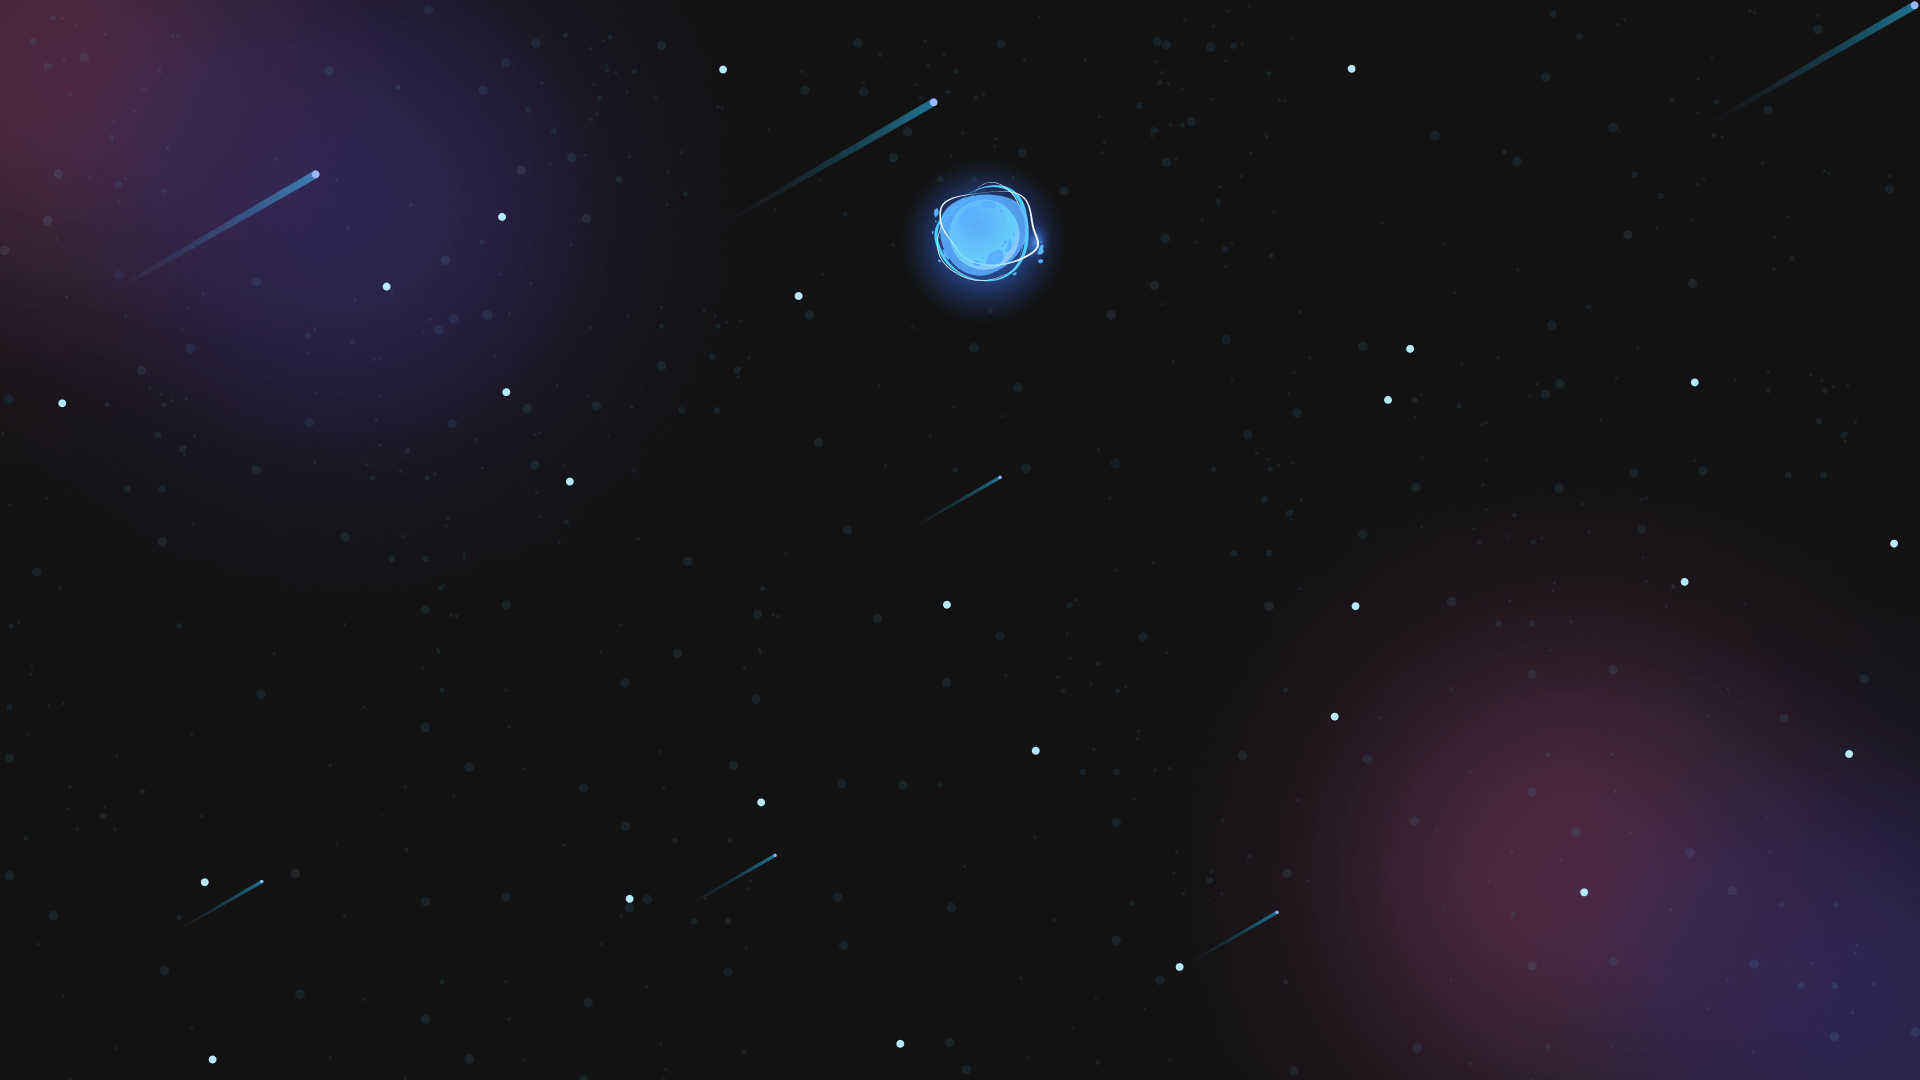
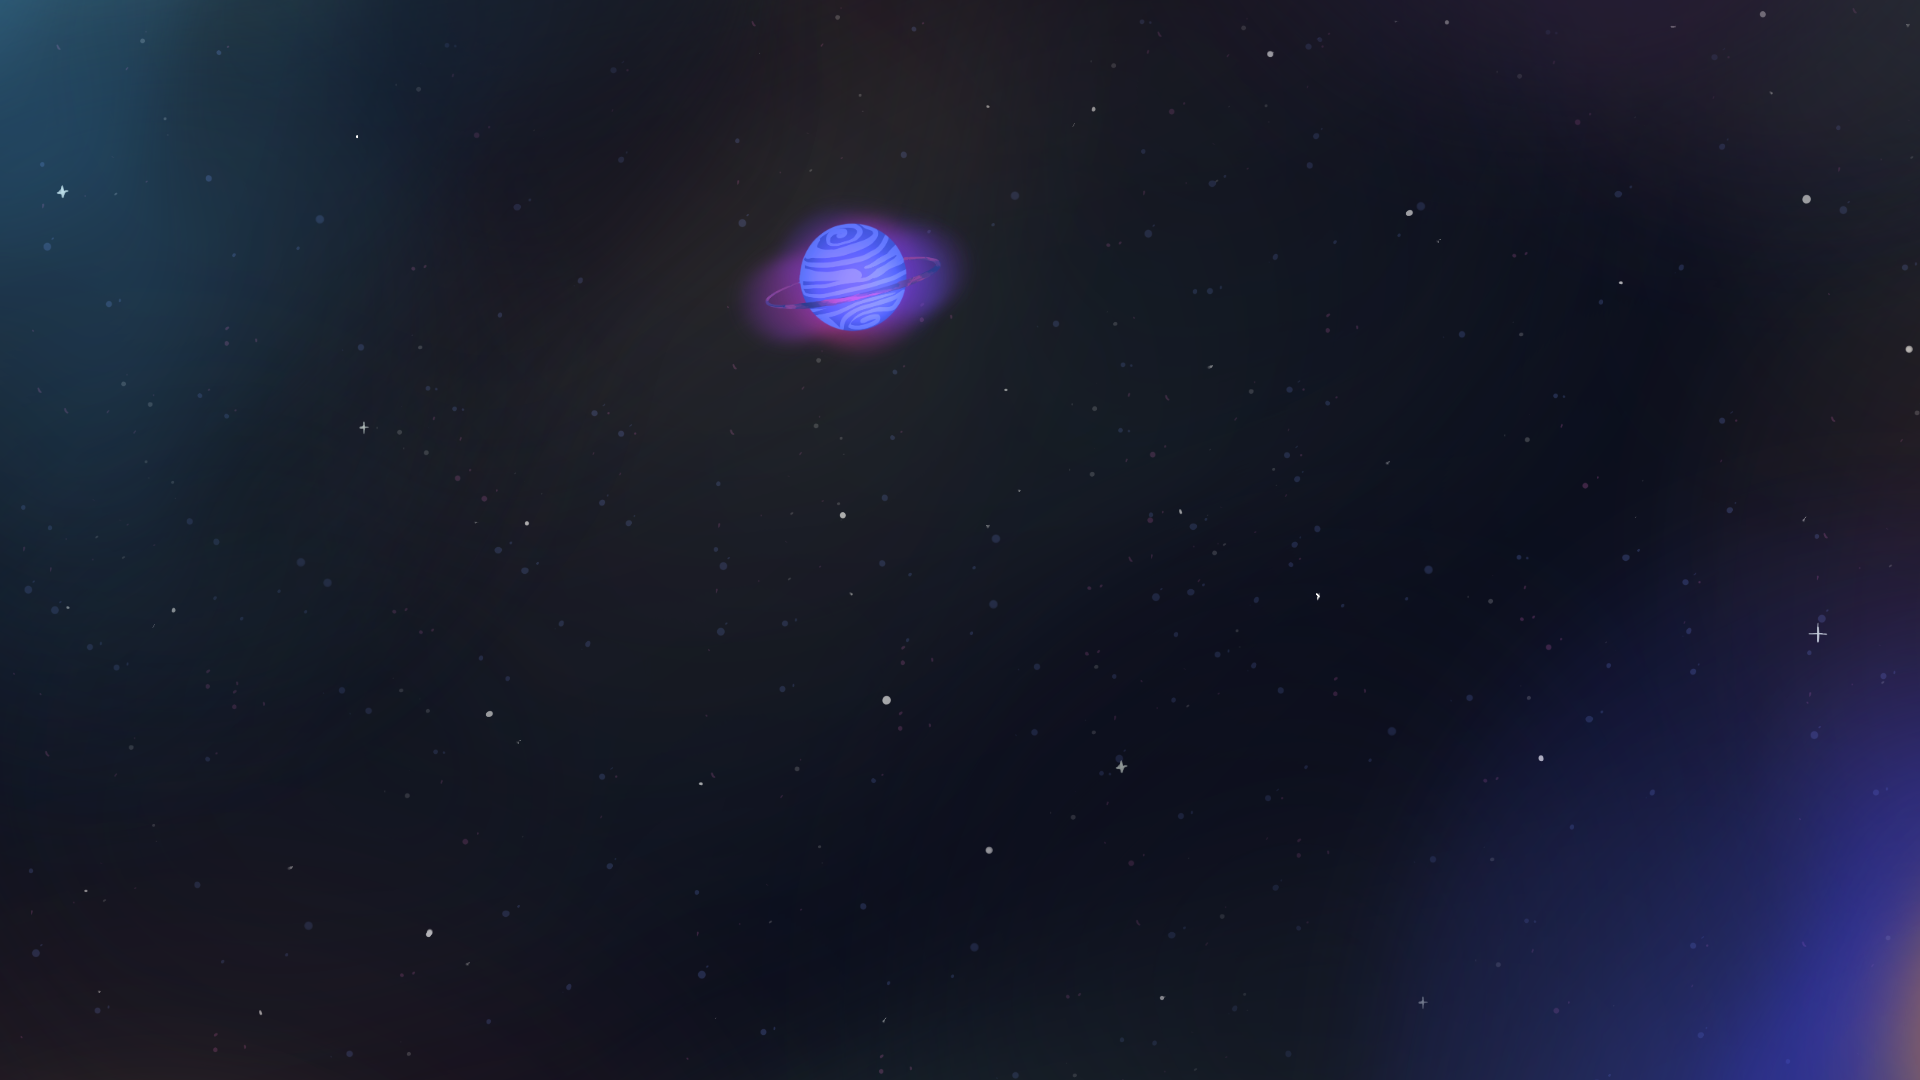
personalizando

diff --git a/src/components/Skills.js b/src/components/Skills.js
@@ -1,10 +1,12 @@
 import { Col, Container, Row } from "react-bootstrap";
 import Carousel from "react-multi-carousel";
 import "react-multi-carousel/lib/styles.css";
-import meter1 from "../assets/img/meter1.svg";
-import meter2 from "../assets/img/meter2.svg";
-import meter3 from "../assets/img/meter3.svg";
+import javaLogo from "../assets/img/javascript-logo.png";
+import react from "../assets/img/react-logo.png";
+import bostra from "../assets/img/Bootstrap_Logo.png";
+import css from "../assets/img/CSS.png";
 import colorSharp from "../assets/img/color-sharp.png";
+import html from "../assets/img/html.png";
 
 export const Skills = () => {
     const responsive = {
@@ -34,28 +36,33 @@ return(
                 <Col>
                 <div className="skill-bx">
                     <h2>
-                        Skills
+                        Habilidades
                     </h2>
                     <p>AQslkjdfa aslkjdfalsjdf aalsjflasjfd</p>
                     <Carousel responsive={responsive} infinite={true} className="skill-slider">
                         <div className="item">
-                            <img src={meter1} alt="Image" />
-                            <h5> Web Developer</h5>
+                            <img src={javaLogo} alt="Image" />
+                            <h5>JavaScript</h5>
                         </div>
 
                         <div className="item">
-                            <img src={meter2} alt="Image" />
-                            <h5> Brand Identity</h5>
+                            <img src={react} alt="Image" />
+                            <h5>React</h5>
                         </div>
 
                         <div className="item">
-                            <img src={meter3} alt="Image" />
-                            <h5> Logo Designer</h5>
+                            <img src={bostra} alt="Image" />
+                            <h5>Bootstrap</h5>
                         </div>
 
                         <div className="item">
-                            <img src={meter1} alt="Image" />
-                            <h5> Web dfsfs</h5>
+                            <img src={css} alt="Image" />
+                            <h5>CSS</h5>
+                        </div>
+
+                        <div className="item">
+                            <img src={html} alt="Image" />
+                            <h5>HTML</h5>
                         </div>
                     </Carousel>
 

diff --git a/src/App.css b/src/App.css
@@ -243,7 +243,7 @@ nav.navbar .navbar-toggler[aria-expanded="true"] .navbar-toggler-icon {
   font-weight: 700;
   letter-spacing: 0.8px;
   padding: 8px 10px;
-  background: linear-gradient(90.21deg, rgba(170, 54, 124, 0.5) -5.91%, rgba(74, 47, 189, 0.5) 111.58%);
+  background: linear-gradient(90.21deg, rgba(170, 54, 124, 0.5) -5.91%, rgba(0, 195, 255, 0.5) 111.58%);
   border: 1px solid rgba(255, 255, 255, 0.5);
   font-size: 20px;
   margin-bottom: 16px;
@@ -282,6 +282,25 @@ nav.navbar .navbar-toggler[aria-expanded="true"] .navbar-toggler-icon {
 .banner button:hover svg {
   margin-left: 25px;
 }
+
+/* Ajusta el contenedor de cada ítem */
+.skill-slider .item {
+    display: flex;
+    flex-direction: column;
+    align-items: center;
+    justify-content: center;
+    height: 250px; /* Ajusta según necesites */
+}
+
+/* Fuerza a las imágenes a tener un tamaño estándar */
+.skill-slider .item img {
+    width: 150px;   /* Ancho fijo */
+    height: 150px;  /* Alto fijo */
+    object-fit: contain; /* Esto evita que se deformen y las centra */
+    margin-bottom: 15px;
+}
+
+
 
 /* Animacion para la imagen */
 .banner img {
@@ -393,12 +412,14 @@ nav.navbar .navbar-toggler[aria-expanded="true"] .navbar-toggler-icon {
     position: absolute;
     width: 0;
     height: 100%;
-    background: linear-gradient(90.21deg, #AA367C -5.91%, #4A2FBD 111.58%);
+    background: linear-gradient(90.21deg, #36aa5d -5.91%, #1e21b3 111.58%);
     top: 0;
     left: 0;
     z-index: -1;
     transition: 0.3s ease-in-out;
 }
+
+
 .project .nav.nav-pills .nav-link.active::before {
     width: 100% !important;
 }
@@ -425,13 +446,15 @@ nav.navbar .navbar-toggler[aria-expanded="true"] .navbar-toggler-icon {
 }
 .proj-imgbx::before {
   content: "";
-  background: linear-gradient(90.21deg, #AA367C -5.91%, #4A2FBD 111.58%);
+  background: linear-gradient(90.21deg, #AA367C -5.91%, #2facbd 111.58%);
   opacity: 0.85;
   position: absolute;
   width: 100%;
   height: 0;
   transition: 0.4s ease-in-out;
 }
+
+
 .proj-imgbx:hover::before {
   height: 100%;
 }

diff --git a/src/components/NavBar.js b/src/components/NavBar.js
@@ -38,22 +38,26 @@ export const NavBar = () => {
         </Navbar.Toggle>
         <Navbar.Collapse id="basic-navbar-nav">
           <Nav className="me-auto">
-            <Nav.Link href="#home" className={activeLink === 'home'? 'active navbar-link' : 'navbar-link'} onClick={() => onUpdateActivateLink('home')}>Home</Nav.Link>
-            <Nav.Link href="#skills" className={activeLink === 'skills'? 'active navbar-link' : 'navbar-link'} onClick={() => onUpdateActivateLink('skills')} >Skills</Nav.Link>
-            <Nav.Link href="#projects"className={activeLink === 'projects'? 'active navbar-link' : 'navbar-link'} onClick={() => onUpdateActivateLink('projects')}>Projects</Nav.Link>
+            <Nav.Link href="#home" className={activeLink === 'home'? 'active navbar-link' : 'navbar-link'} onClick={() => onUpdateActivateLink('home')}>Presentación</Nav.Link>
+            <Nav.Link href="#skills" className={activeLink === 'skills'? 'active navbar-link' : 'navbar-link'} onClick={() => onUpdateActivateLink('skills')} >Habilidades</Nav.Link>
+            <Nav.Link href="#projects"className={activeLink === 'projects'? 'active navbar-link' : 'navbar-link'} onClick={() => onUpdateActivateLink('projects')}>Proyectos</Nav.Link>
             
           </Nav>
 
           <span className="navbar-text">
             <div className="social-icon">
                 <a href="#"><img src={navIcon1} alt=""/></a>
-                <a href="#"><img src={navIcon2} alt=""/></a>
-                <a href="#"><img src={navIcon3} alt=""/></a>
+                
             </div>
-            <button className="vvd" onClick={() => console.log('connect')}><span>Let's Connect </span></button>
+            
           </span>
         </Navbar.Collapse>
       </Container>
     </Navbar>
   )
 }
+
+/*50 <a href="#"><img src={navIcon2} alt=""/></a>
+<a href="#"><img src={navIcon3} alt=""/></a>*/
+
+/*52 <button className="vvd" onClick={() => console.log('connect')}><span>Let's Connect </span></button>*/

diff --git a/src/components/Banner.js b/src/components/Banner.js
@@ -12,7 +12,7 @@ export const Banner = () => {
 
     const [isDeleting, setIsDeleting] = useState(false); /*Función: Es un interruptor (booleano) que indica si la máquina está escribiendo o borrando.*/
 
-    const toRotate = [ "Web Developer", "Web Designer", "UI/UX Designer"] /*Es el diccionario o lista de palabras que quieres que se turnen en la pantalla.*/
+    const toRotate = [ "Desarrolladora Web", "Diseñadora Web", "Diseñadora UI/UX"] /*Es el diccionario o lista de palabras que quieres que se turnen en la pantalla.*/
 
     const [text, setText] = useState(''); /*Es lo que el usuario ve en la pantalla en cada milisegundo.*/
 
@@ -56,10 +56,11 @@ export const Banner = () => {
                 <Row className="aling-items-center">
                     <Col xs={12} md={6} xl={7}>
                         <span className="tagline">Welcome to my Portfolio</span>
-                        <h1>{'Hi Im --- '}<span className="wrap"> {text} </span></h1>
-                        <p> SOBRE MI</p>
-                        <button onClick={() => console.log('connect')}>dasda<ArrowRightCircle size={25}></ArrowRightCircle></button>
-                    
+                        <h1>{'Marina Desiderio'}<span className="wrap"> {text} </span></h1>
+                        <p><strong>desiderio707mlv@gmail.com</strong></p>
+
+                        <p> Soy estudiante de Ingeniería en Ciencias de la Computación. Me considero una aprendiz constante; actualmente busco profundizar en nuevas áreas del desarrollo para complementar mi formación técnica y aportar soluciones innovadoras en cada proyecto.</p>
+                       
                     </Col>
                     <Col xs={12} md={6} xl={5}>
                         <img src={headerImg} alt="Headder Img" />

diff --git a/src/components/Projects.js b/src/components/Projects.js
@@ -6,12 +6,13 @@ import colorSharp2 from "../assets/img/color-sharp2.png";
 import projImg1 from "../assets/img/project-img1.png";
 import projImg2 from "../assets/img/project-img2.png";
 import projImg3 from "../assets/img/project-img3.png";
+import proyectoPilly from "../assets/img/proyectoPilly.png";
 export const Projects = () => {
     const projects = [
         {
-            title: 'Business Startup',
-            description : "Desing & Development",
-            imgUrl: projImg1,
+            title: 'Check-Tilla',
+            description : "Registro de Medicinas",
+            imgUrl: proyectoPilly,
         },
 
         {
@@ -31,12 +32,12 @@ export const Projects = () => {
             <Container>
                 <Row>
                     <Col>
-                        <h2>Projects</h2>
+                        <h2>Proyectos</h2>
                         <p>LASLFAS Aasldfja asfd alfjaksldf asfd aljdfalkfd</p>
                         <Tab.Container id="projects-tabs" defaultActiveKey="first">
                         <Nav variant="pills" className="nav-pills mb-5 justify-content-center align-items-center" id="pills-tab">
                             <Nav.Item>
-                                <Nav.Link eventKey="first">Tab One</Nav.Link>
+                                <Nav.Link eventKey="first">Apps Webs</Nav.Link>
                             </Nav.Item>
                             <Nav.Item>
                                 <Nav.Link eventKey="second">Tab Two</Nav.Link>

diff --git a/src/App.js b/src/App.js
@@ -4,7 +4,6 @@ import { NavBar} from './components/NavBar';
 import { Banner} from './components/Banner';
 import { Skills } from './components/Skills';
 import { Projects } from './components/Projects';
-import { Contact } from './components/Contact';
 import 'bootstrap/dist/css/bootstrap.min.css';
 function App() {
   return (
@@ -13,7 +12,7 @@ function App() {
       <Banner />
       <Skills />
       <Projects />
-      <Contact />
+      
     </div>
   );
 }

diff --git a/public/index.html b/public/index.html
@@ -24,7 +24,7 @@
       work correctly both with client-side routing and a non-root public URL.
       Learn how to configure a non-root public URL by running `npm run build`.
     -->
-    <title>React App</title>
+    <title>Portafolio Marina</title>
   </head>
   <body>
     <noscript>You need to enable JavaScript to run this app.</noscript>
